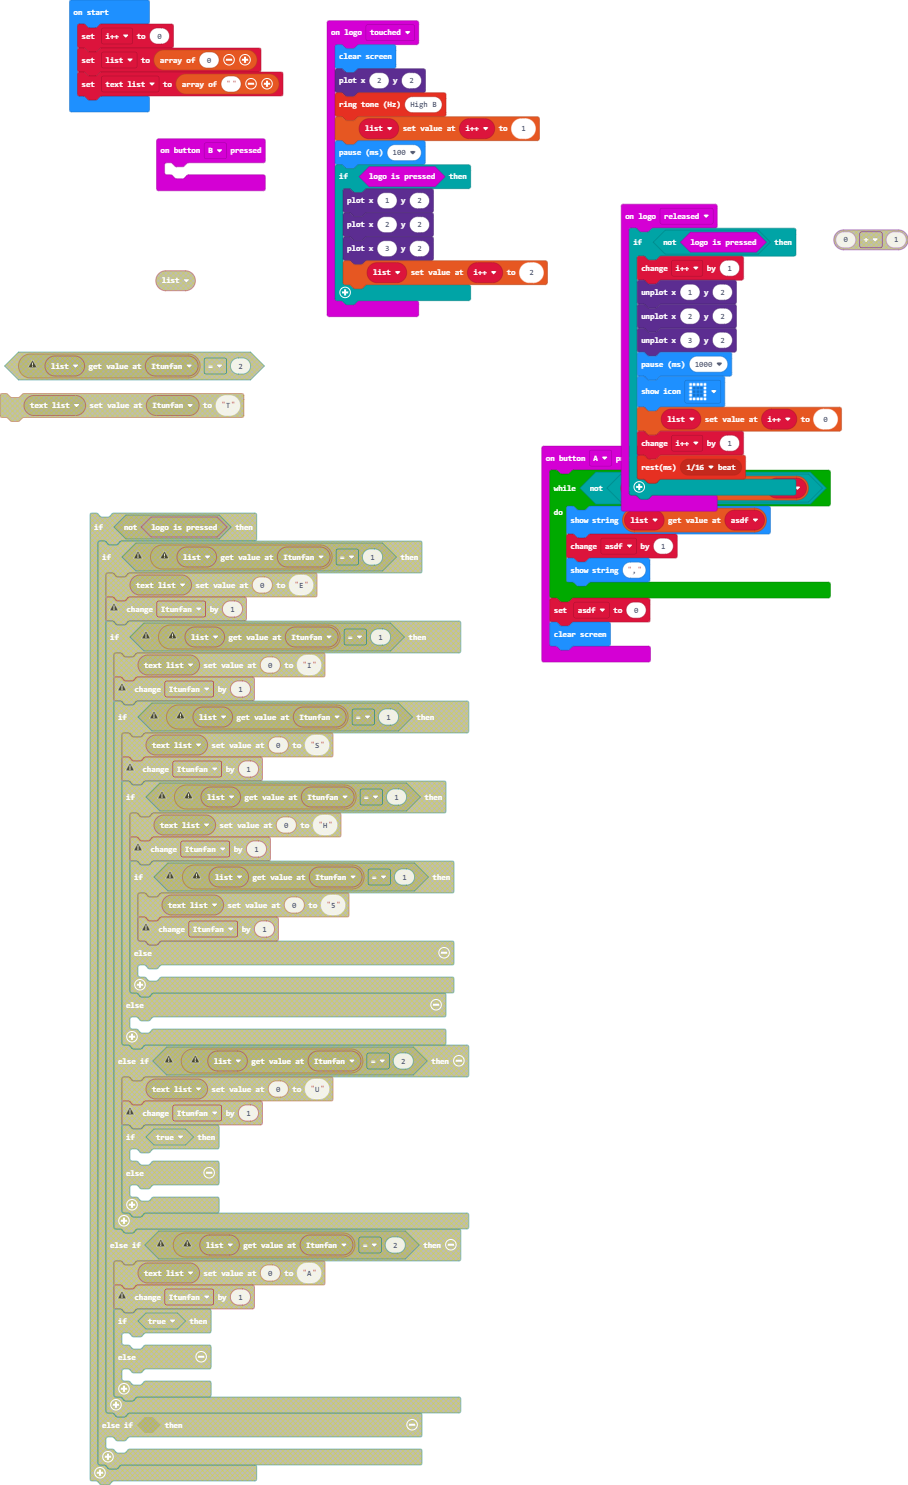
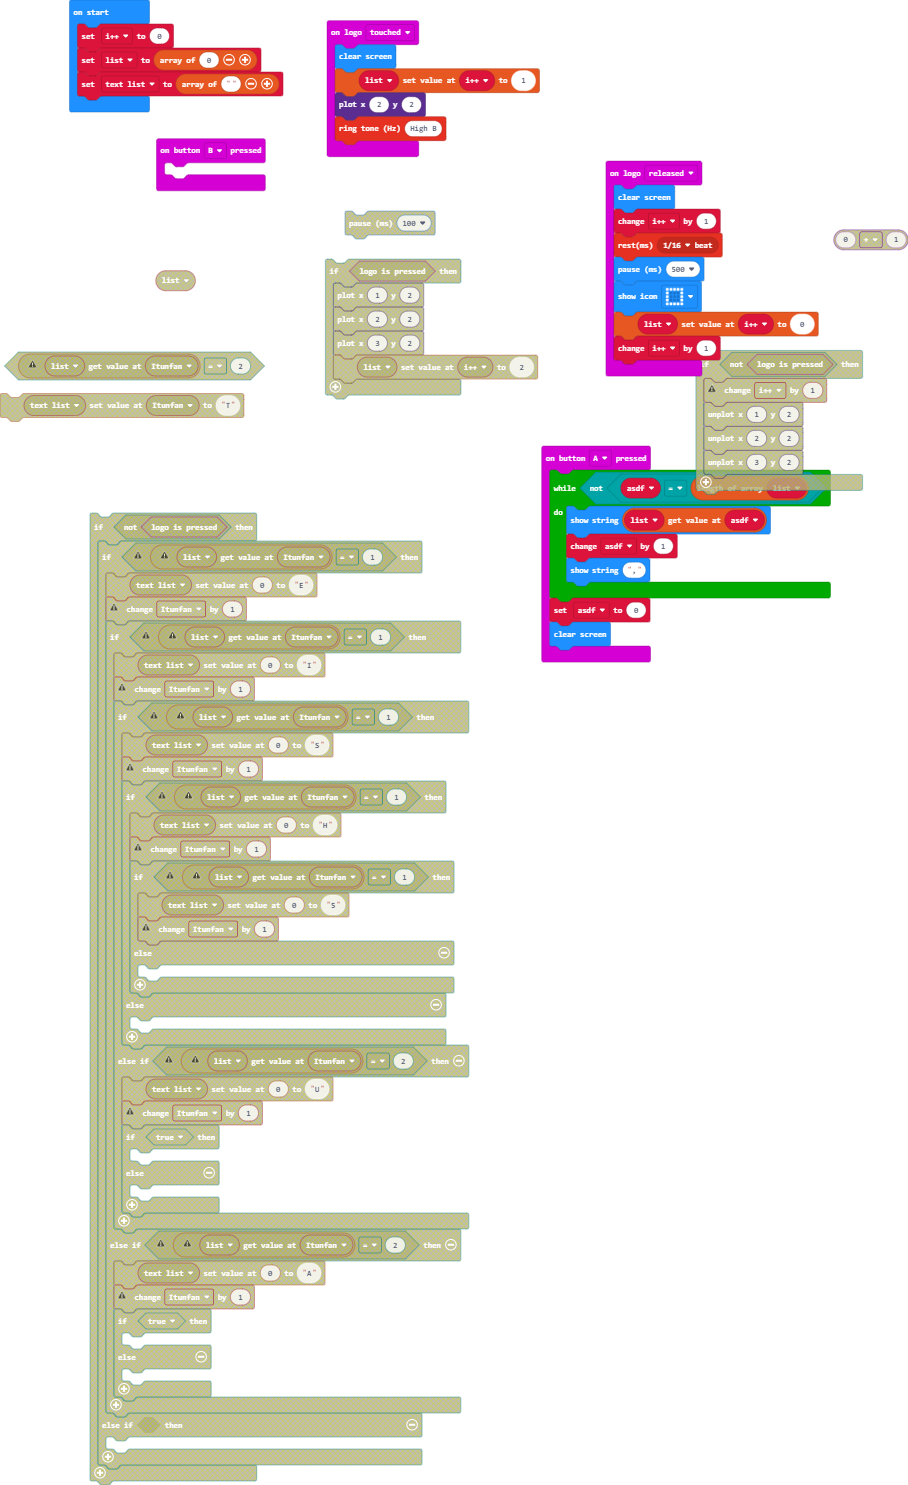
Update main.blocks, main.ts

Changed region(s): [[0.6476, 0.0929, 0.9559, 0.3717], [0.3392, 0.031, 0.6167, 0.2788]]

diff --git a/main.ts b/main.ts
@@ -12,29 +12,18 @@ input.onButtonPressed(Button.B, function () {
 })
 input.onLogoEvent(TouchButtonEvent.Touched, function () {
     basic.clearScreen()
+    list[i] = 1
     led.plot(2, 2)
     music.ringTone(988)
-    list[i] = 1
-    basic.pause(100)
-    if (input.logoIsPressed()) {
-        led.plot(1, 2)
-        led.plot(2, 2)
-        led.plot(3, 2)
-        list[i] = 2
-    }
 })
 input.onLogoEvent(TouchButtonEvent.Released, function () {
-    if (!(input.logoIsPressed())) {
-        i += 1
-        led.unplot(1, 2)
-        led.unplot(2, 2)
-        led.unplot(3, 2)
-        basic.pause(1000)
-        basic.showIcon(IconNames.Square)
-        list[i] = 0
-        i += 1
-        music.rest(music.beat(BeatFraction.Sixteenth))
-    }
+    basic.clearScreen()
+    i += 1
+    music.rest(music.beat(BeatFraction.Sixteenth))
+    basic.pause(500)
+    basic.showIcon(IconNames.Square)
+    list[i] = 0
+    i += 1
 })
 let asdf = 0
 let list: number[] = []
